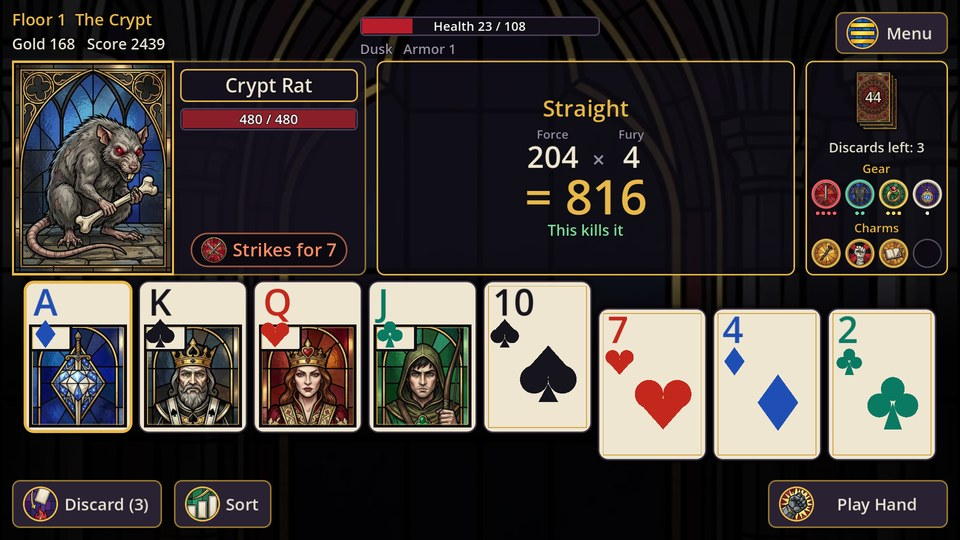
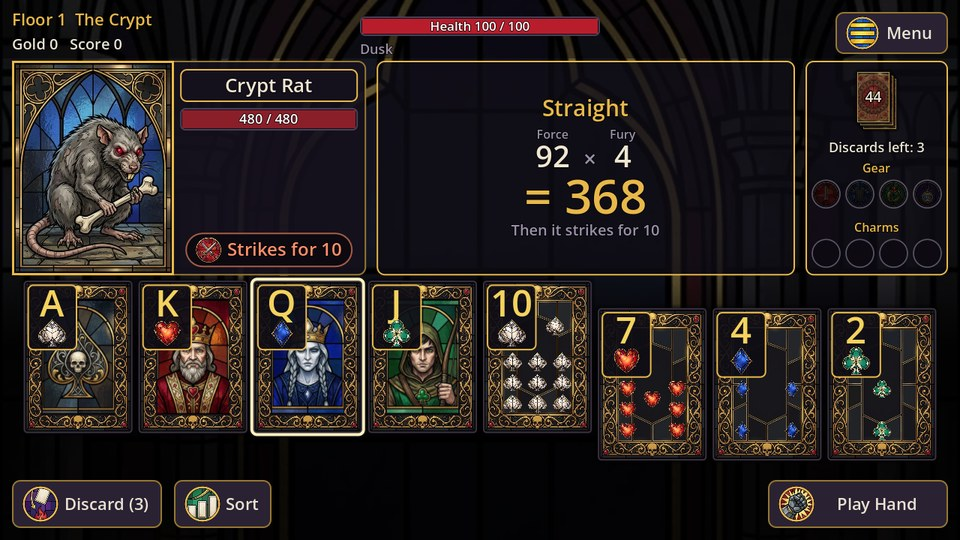
Gravehand page: 0.4.3 screenshots (dark gold cards and the charm tiles)
Claude-Session: https://claude.ai/code/session_0117TTYDSFhPqKWFFkDdBuwH

diff --git a/docs/index.html b/docs/index.html
@@ -34,7 +34,7 @@ footer{margin-top:44px;font-size:13px;opacity:.8;text-align:center}footer a{colo
 <p class="lead">Play poker hands to fight your way through a dark dungeon in stained glass. Climb the map room by room, see the damage before you strike and take the monster's blows in return. Loot gear in four tiers, collect charms that bend your Fury and shop in Tallowgate between the floors. Beat all three bosses to win. Lose and the run ends, but your records stay.</p>
 <div class="cta"><a class="btn primary" href="play/">Play in your browser</a><a class="btn ghost" href="downloads/Gravehand-v0.4.3.apk">Download for Android (APK)</a></div>
 <p class="note">Version 0.4.3. <a href="release-notes/v0.4.3.md">Release notes</a> &middot; <a href="https://github.com/bclark10121-cloud/gravehand/blob/main/BACKLOG.md">Backlog</a></p></header>
-<div class="shots"><a href="shot-1.jpg"><img src="shot-1.jpg" alt="The floor 1 map climbing from the first rooms at the bottom to the boss at the top, with stained glass room medallions" width="960" height="540"></a><a href="shot-2.jpg"><img src="shot-2.jpg" alt="A fight with the Crypt Rat: a stained glass portrait with its name and strike on the frame, the damage panel, gear and charm slots and a hand of cards" width="960" height="540"></a><a href="shot-3.jpg"><img src="shot-3.jpg" alt="A fight held upright: the monster card in the middle, gear and charm slots beside it and the damage panel under it" width="960" height="540"></a></div>
+<div class="shots"><a href="shot-1.jpg"><img src="shot-1.jpg" alt="The floor 1 map climbing from the first rooms at the bottom to the boss at the top, with stained glass room medallions" width="960" height="540"></a><a href="shot-2.jpg?v=0.4.3"><img src="shot-2.jpg?v=0.4.3" alt="A fight with the Crypt Rat: a Straight picked from a hand of dark gold cards with gem pips, and the damage panel showing 368" width="960" height="540"></a><a href="shot-3.jpg?v=0.4.3"><img src="shot-3.jpg?v=0.4.3" alt="Choosing a charm: three tiles with stained glass pictures, names, rarity and what each charm does" width="960" height="540"></a></div>
 <h2>What kind of game is this?</h2>
 <div class="grid"><div class="card"><b>Poker hands are your weapon.</b> Pairs, straights, flushes and full houses. Damage is Force times Fury.</div><div class="card"><b>Trade blows.</b> Every monster shows its next strike. Kill it fast or bleed.</div><div class="card"><b>Three floors deep.</b> Fights, elites, shrines, treasure and rests on a map that climbs to the boss. Three bosses that change the rules.</div><div class="card"><b>Loot and charms.</b> Gear in four tiers you read at a glance, twenty charms and rites that raise a hand for the run.</div></div>
 <h2>Things to do</h2>
